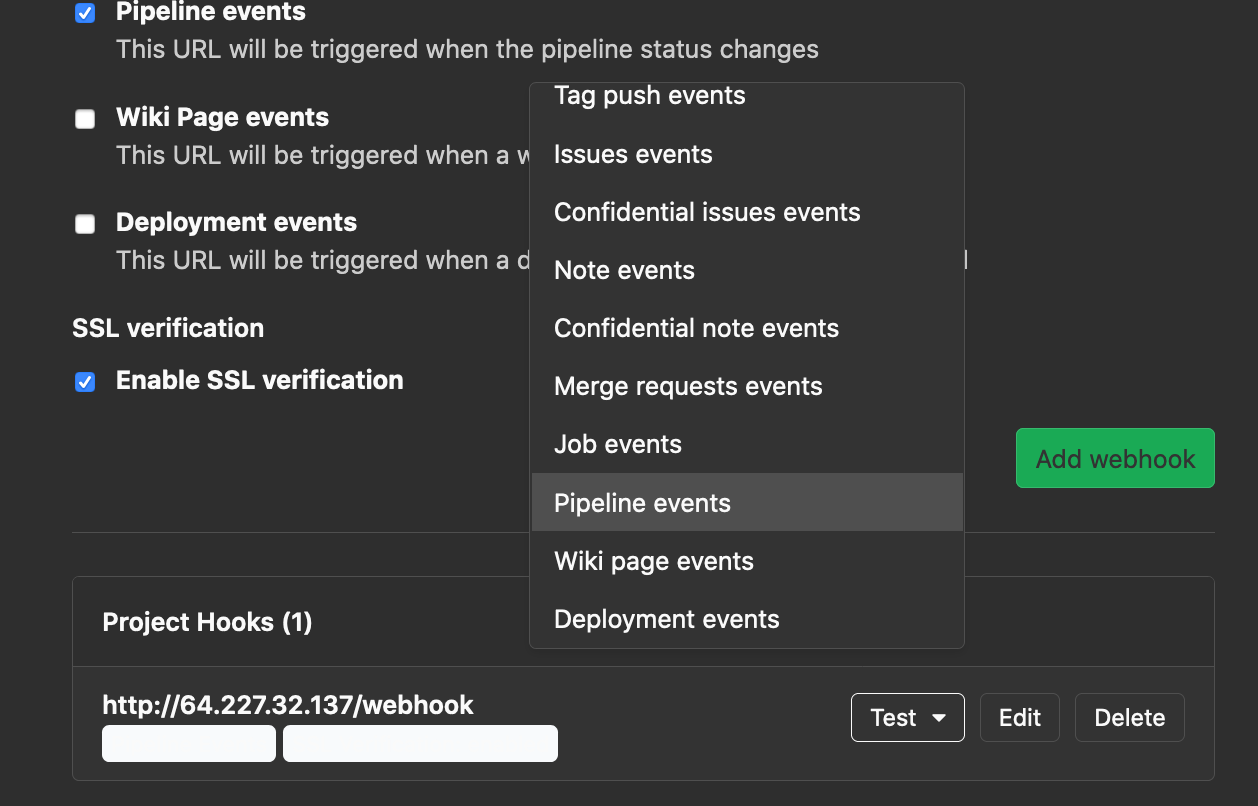
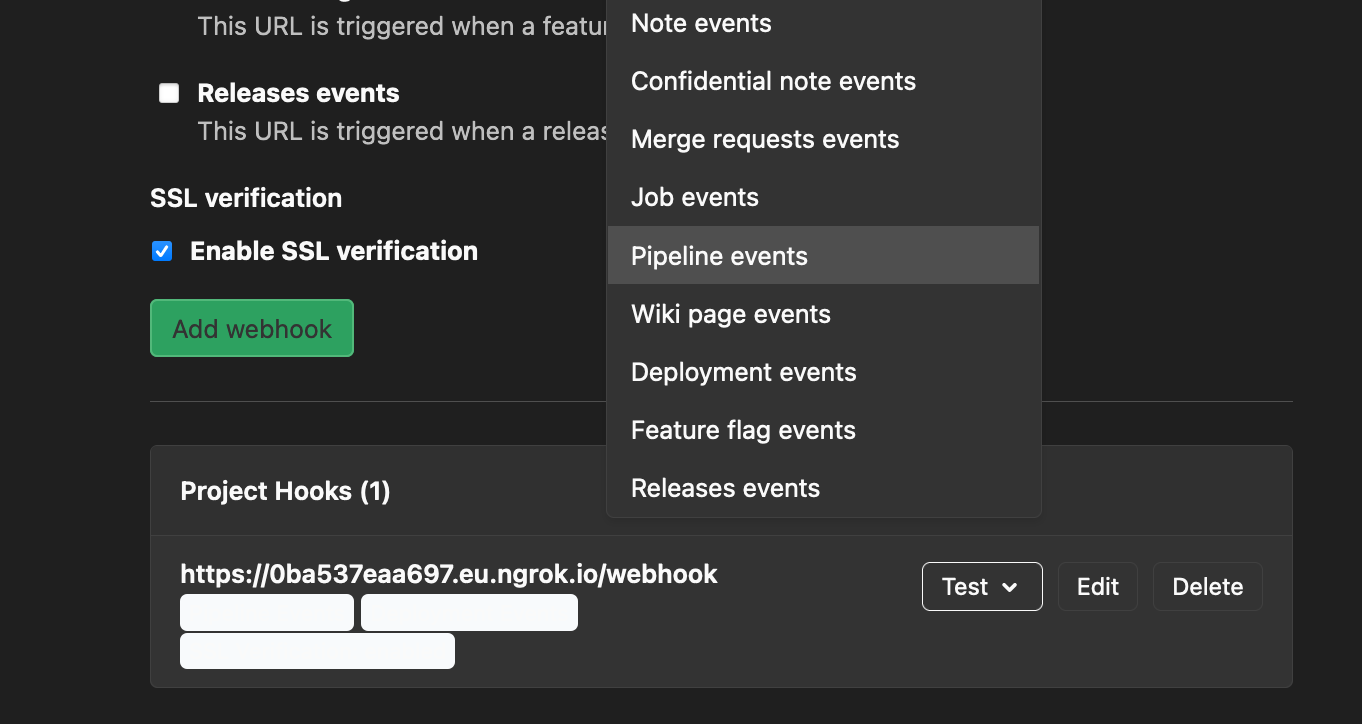
replaced webhook example implementation with ngrok/docker-compose instead of hashicorp waypoint

diff --git a/examples/webhooks/README.md b/examples/webhooks/README.md
@@ -7,9 +7,9 @@ This is a more advanced setup for users looking to reduce the amount of requests
 - A personal access token on [gitlab.com](https://docs.gitlab.com/ee/user/profile/personal_access_tokens.html) (or your own instance) with `read_repository` scope
 - [git](https://git-scm.com/) & [docker-compose](https://docs.docker.com/compose/)
 - GitLab [webhook configuration](https://docs.gitlab.com/ee/user/project/integrations/webhooks.html) privileges/capabilities on group(s) or project(s) you want to monitor.
-- For this use case, we will need network connectivity from the GitLab rails processes towards the exporter's http endpoint. I assume that you will want to try this out for your laptop but don't worry, it should still be able to work effortlessly thanks to [Hashicorp Waypoint](https://www.waypointproject.io/)!
+- For this use case, we will need network connectivity from the GitLab rails processes towards the exporter's HTTP endpoint. If you are attempting this from your laptop, you will need something like [ngrok](https://ngrok.com/) or equivalent to be able to do so.
 
-/!\ This implementation is for test/example only as it is not recommended to leverage **waypoint.run** endpoints for production purposes.
+/!\ This implementation is for test/example only, I would not recommended to leverage ngrok endpoints for production purposes.
 
 ## 🚀
 
@@ -21,43 +21,31 @@ This is a more advanced setup for users looking to reduce the amount of requests
 ~$ cd gitlab-ci-pipelines-exporter/examples/webhooks
 
 # Provide your personal GitLab API access token (needs read_api permissions)
-~$ sed -i 's/<your_token>/xXF_xxjV_xxyzxzz' gitlab-ci-pipelines-exporter/config.yml
+~$ sed -i 's/<your_token>/xXF_xxjV_xxyzxzz' gitlab-ci-pipelines-exporter.yml
 
 # Configure a secret token for your webhooks authz
 ~$ export SECRET_TOKEN=$(openssl rand -base64 32)
-~$ sed -i "s/<strong_arbitrary_secret_token>/${SECRET_TOKEN}" gitlab-ci-pipelines-exporter/config.yml
+~$ sed -i "s/<strong_arbitrary_secret_token>/${SECRET_TOKEN}" gitlab-ci-pipelines-exporter.yml
 
 # Configure a project on which you are authorized to configure webhooks
-~$ sed -i 's;<your_project_path_with_namespace>;my_group/my_project' gitlab-ci-pipelines-exporter/config.yml
+~$ sed -i 's;<your_project_path_with_namespace>;my_group/my_project' gitlab-ci-pipelines-exporter.yml
 
-# Start gitlab-ci-pipelines-exporter container through Hashicorp Waypoint
-~$ docker pull hashicorp/waypoint:latest
-[..]
-~$ waypoint install --platform=docker -accept-tos
-[..]
-~$ waypoint init
-[..]
-~$ waypoint up
-» Building...
-✓ Initializing Docker client...
-✓ Building image...
- │ Successfully built 4b5948a15ca3
- │ Successfully tagged waypoint.local/exporter:latest
-✓ Injecting Waypoint Entrypoint...
+# Start the exporter!
+~$ docker-compose up -d
 
-» Deploying...
-✓ Setting up waypoint network
-✓ Starting container
-✓ App deployed as container: exporter-01EMQ4Q1SYZ4PV8CRD4D35QAKW
+# Start ngrok
+~$ ngrok http 8080
+ngrok by @inconshreveable                                                                                                                                                                                                                                                                                                                                (Ctrl+C to quit)
 
-» Releasing...
+Session Status                online
+Version                       2.3.35
+Region                        Europe (eu)
+Web Interface                 http://127.0.0.1:4040
+Forwarding                    http://0ba537eaa697.eu.ngrok.io -> http://localhost:8080
+Forwarding                    https://0ba537eaa697.eu.ngrok.io -> http://localhost:8080
 
-The deploy was successful! A Waypoint deployment URL is shown below. This
-can be used internally to check your deployment and is not meant for external
-traffic. You can manage this hostname using "waypoint hostname."
-
-           URL: https://instantly-worthy-shrew.alpha.waypoint.run
-Deployment URL: https://instantly-worthy-shrew--v1.waypoint.run
+Connections                   ttl     opn     rt1     rt5     p50     p90
+                              0       0       0.00    0.00    0.00    0.00
 ```
 
 ## Attempt to reach your exporter http endpoint from the public address
@@ -65,20 +53,17 @@ Deployment URL: https://instantly-worthy-shrew--v1.waypoint.run
 After a few seconds, you should be able to query the URL you got from `waypoint up`
 
 ```bash
-~$ curl -i https://instantly-worthy-shrew.alpha.waypoint.run/health/ready
+~$ curl -i https://0ba537eaa697.eu.ngrok.io/health/ready
 HTTP/1.1 200 OK
 Date: Thu, 15 Oct 2020 22:18:27 GMT
 Content-Type: application/json; charset=utf-8
 Content-Length: 3
 Connection: keep-alive
-Server-Timing: resolve;dur=0.210207,lookup;dur=0.776248,request;dur=0.118955,response-header;dur=668.705608,connect-local;dur=0.576448
-X-Horizon-Endpoint: 01EMMNFHRH0EJ76PAQEQD567SE
-X-Horizon-Latency: 670.412114ms
 
 {}
 ```
 
-gitlab.com should also be able to reach https://instantly-worthy-shrew.alpha.waypoint.run/webhook now! 🎉
+gitlab.com should also be able to reach https://0ba537eaa697.eu.ngrok.io/webhook now! 🎉
 
 ### Configure GitLab group(s) or project(s)
 
@@ -92,7 +77,7 @@ UYqDp5DvHLrtCnkfHA8aBPEkyKfgHjTGAWZRUD4olZU=
 
 Go onto the project's configuration page and configure a new webhook using:
 
-- **URL**: `https://instantly-worthy-shrew.alpha.waypoint.run/webhook`
+- **URL**: `https://0ba537eaa697.eu.ngrok.io/webhook`
 - **Secret Token**: `UYqDp5DvHLrtCnkfHA8aBPEkyKfgHjTGAWZRUD4olZU=`
 - Untick `Push events` and tick `Pipeline events`
 - If you are running on GitLab >= 13.5 and want to export environments/deployments metrics, you can also tick `Deployment events`
